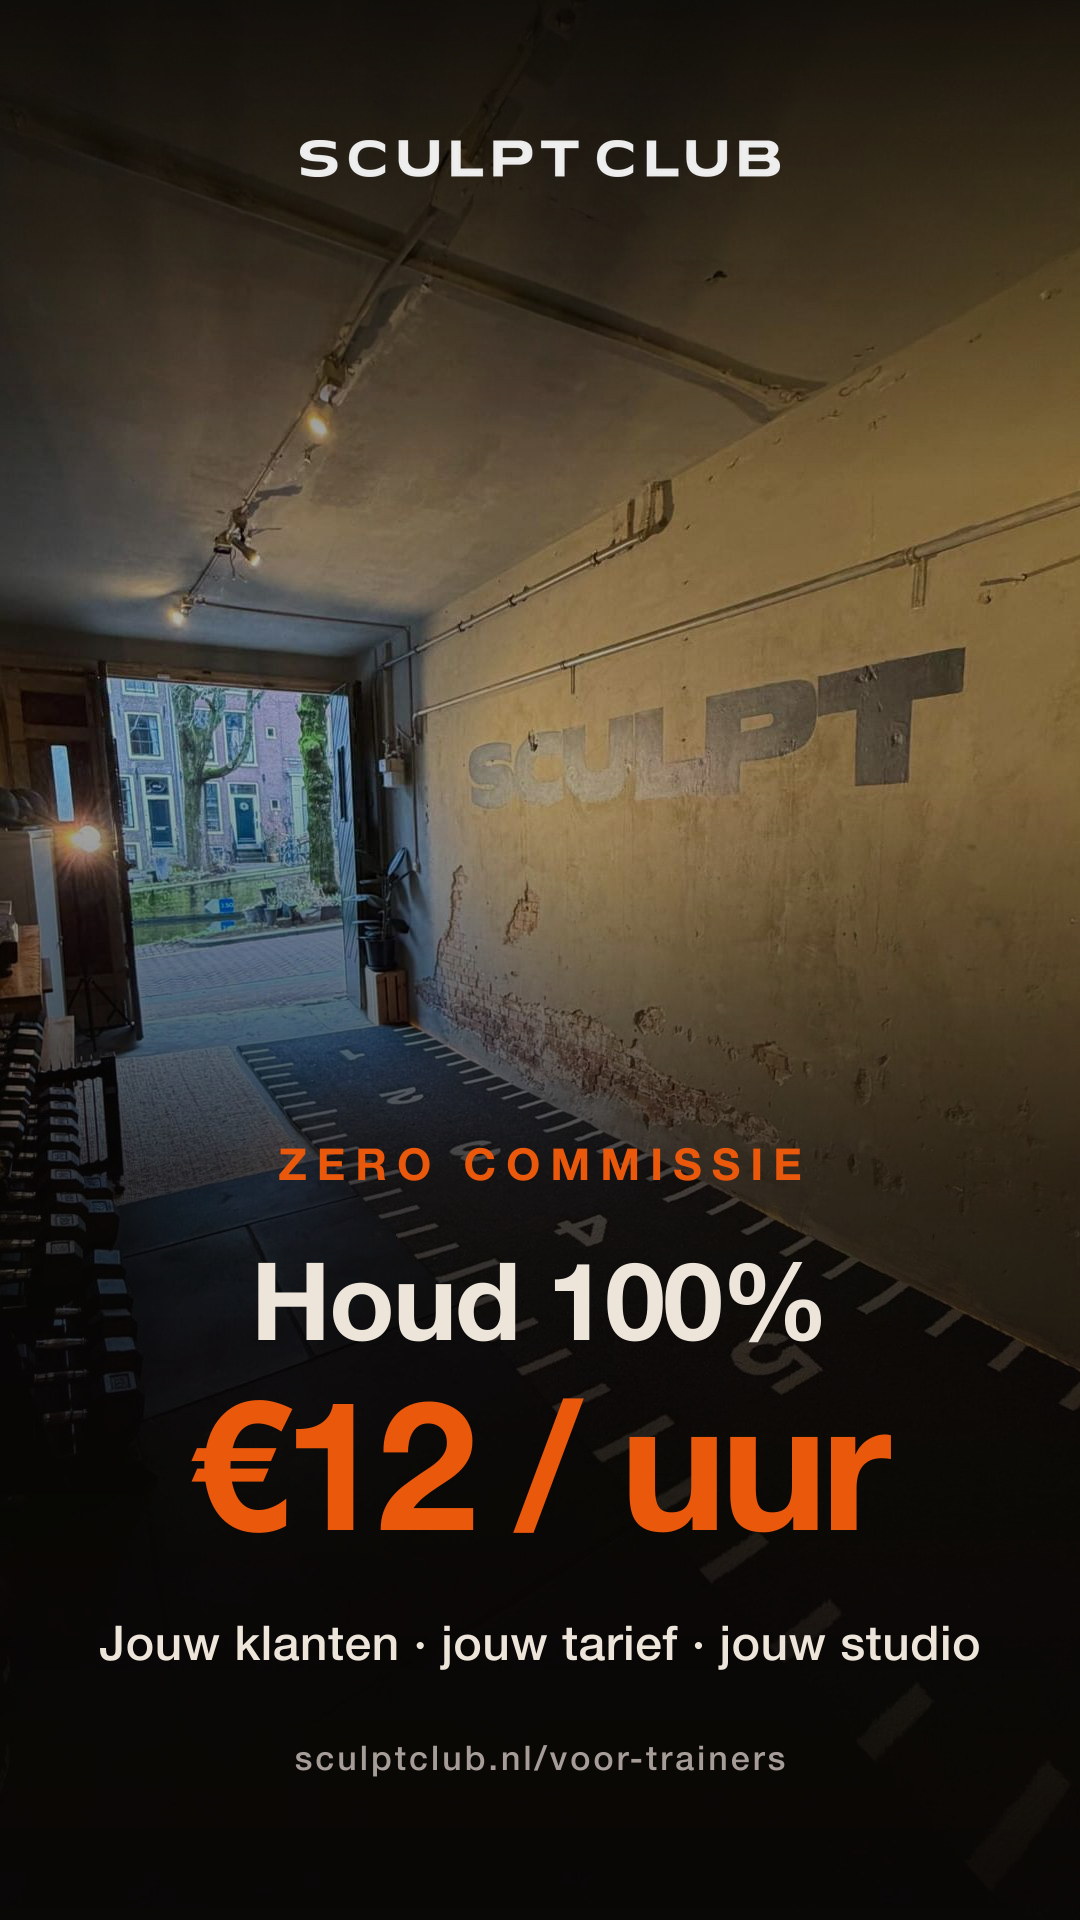
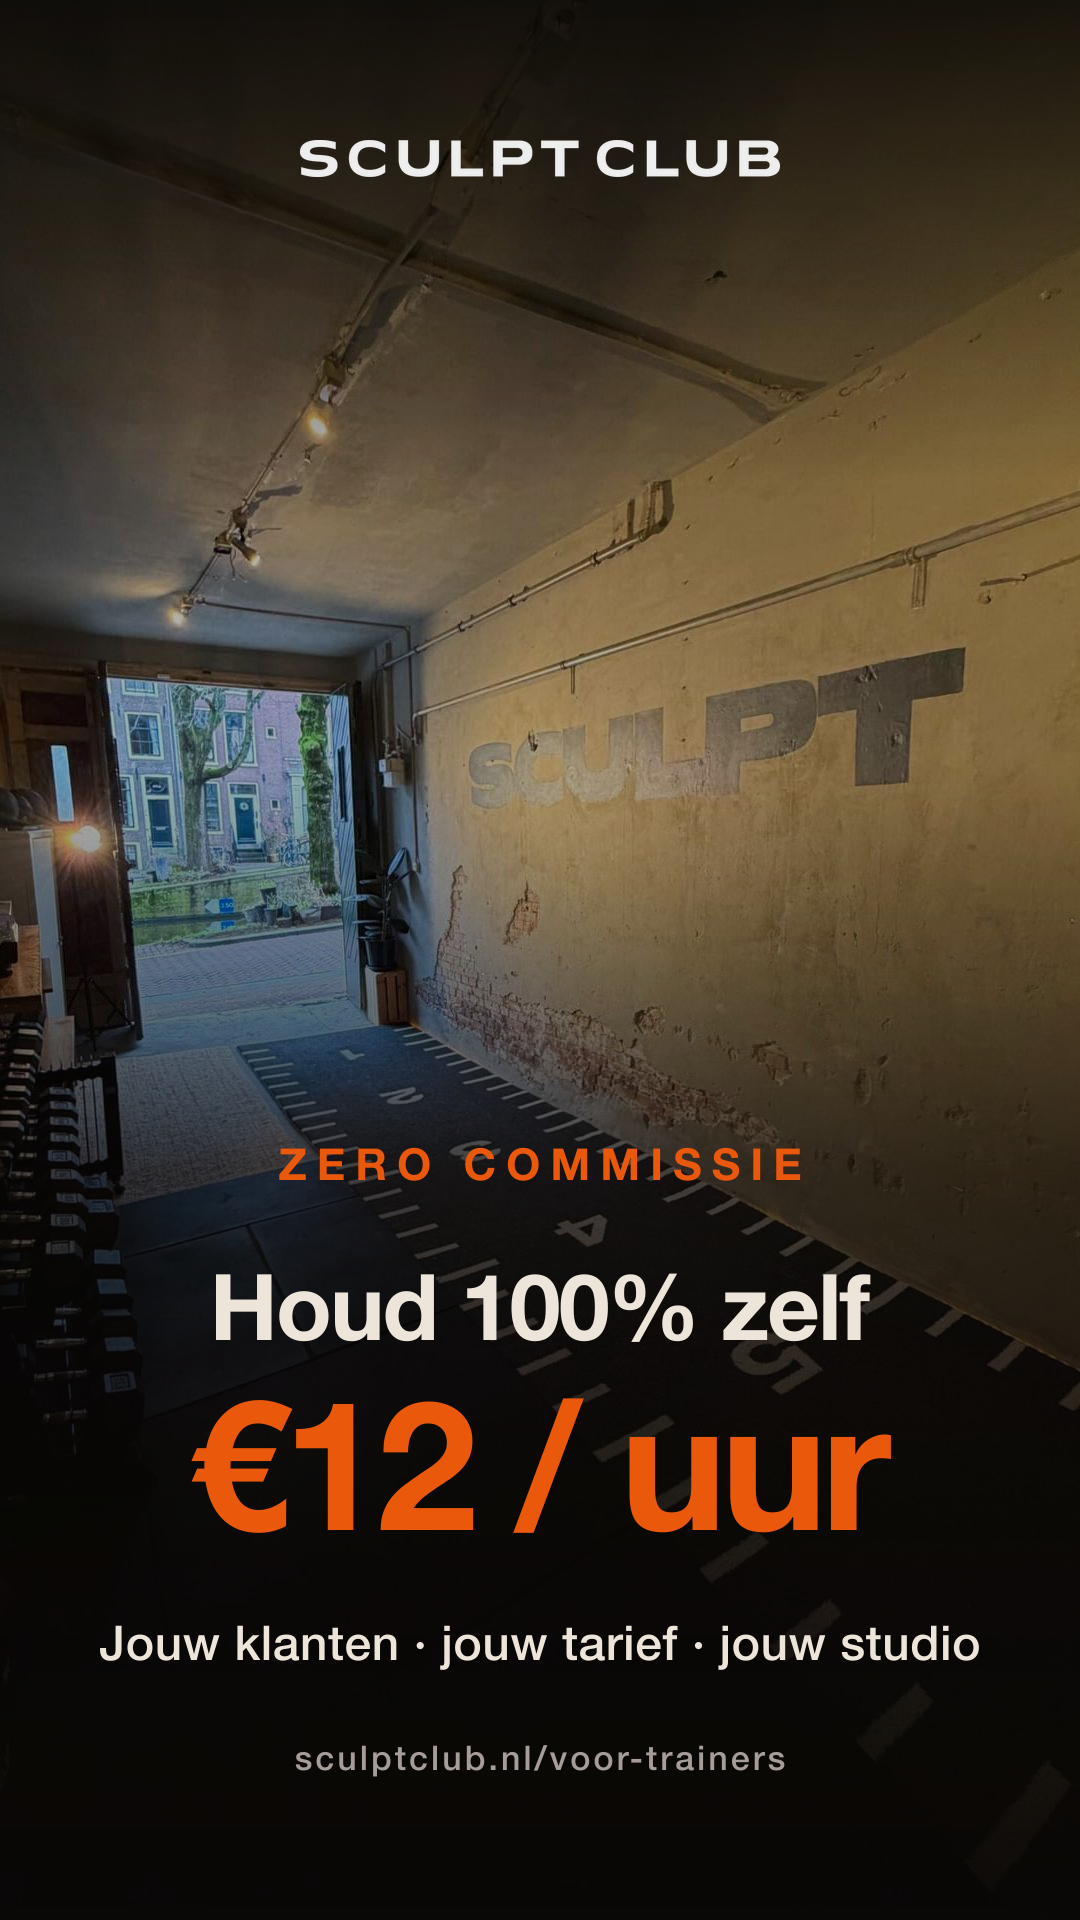
fix(social): save-to-Photos actually works · "Houd 100% zelf" · brand-coherent status colors
THREE root-cause fixes from operator feedback:

1. Download buttons didn't save to Photos
   <a download> is broken on iOS Safari for image MIME types — tapping the
   link just navigates to the PNG instead of saving. Real users got nothing.
   Now using navigator.share({ files: [File] }) which opens the iOS share
   sheet with "Bewaar afbeelding" → goes straight to Photos. Three-tier
   fallback (multi-file share → per-file share → blob download → long-press
   hint) covers iOS 15/16+, Android Chrome 89+, and desktop.

   Added primary "Bewaar alle 3 in Foto's" CTA at top of slides section —
   the single-tap path the operator's "download alle" heading promised but
   never delivered. AbortError handled silently (user dismissing the share
   sheet ≠ failure).

2. "Houd 100%" → "Houd 100% zelf" (slide 2 USP)
   "Houd 100%" alone reads as a Dutch fragment — "keep 100% [of what?]".
   "Houd 100% zelf" = "keep 100% yourself" makes the
   trainer-keeps-everything meaning explicit. Added per-slide heroScale
   field (0.85 here) so the longer string clears the 96px edge margins
   without clipping. images regenerated.

3. Status colors → brand-coherent
   .copied was Tailwind green-600 (#16A34A) and .failed was red-600
   (#DC2626) — generic system defaults that visually fight the
   warm-noir-+-tangerine palette. Replaced with green-700 (#15803D) +
   red-800 (#991B1B) which sit calmer against the warm surface and
[…]

Changed region(s): [[0.1833, 0.6562, 0.825, 0.7188]]

diff --git a/public/social/trainer-pitch-001/index.html b/public/social/trainer-pitch-001/index.html
@@ -19,7 +19,12 @@
       --near-black: #0E0C0A;
     }
     * { box-sizing: border-box; -webkit-tap-highlight-color: transparent; }
-    html, body { margin: 0; padding: 0; background: var(--bg); color: var(--fg); font-family: -apple-system, BlinkMacSystemFont, "Helvetica Neue", sans-serif; -webkit-font-smoothing: antialiased; }
+    /* Font: modernized system stack (system-ui first = OS default on every platform;
+       -apple-system = SF Pro on iOS Safari; rest = explicit fallbacks).
+       Zero font fetches by design — this is a noindex'd operator-tool page, every
+       KB of font weight is 10× the rest of the page. Brand identity lives in the
+       SCULPT CLUB wordmark inside the generated images, not in the tool chrome. */
+    html, body { margin: 0; padding: 0; background: var(--bg); color: var(--fg); font-family: system-ui, -apple-system, BlinkMacSystemFont, "Segoe UI", Roboto, "Helvetica Neue", Arial, sans-serif; -webkit-font-smoothing: antialiased; }
     body { padding: max(env(safe-area-inset-top), 1rem) 1rem max(env(safe-area-inset-bottom), 1rem); max-width: 560px; margin: 0 auto; }
     h1 { font-size: 1.6rem; margin: 0.5rem 0 0.25rem; letter-spacing: -0.02em; }
     h2 { font-size: 0.85rem; text-transform: uppercase; letter-spacing: 0.12em; color: var(--brand); margin: 2rem 0 0.6rem; font-weight: 700; }
@@ -148,7 +153,17 @@
       font-family: inherit;
     }
     .btn:active { background: var(--brand-dark); transform: scale(0.98); }
+    .btn:disabled { opacity: 0.55; cursor: wait; }
+    /* Primary "save all" CTA — slightly larger + bottom margin to anchor as the main action */
+    .save-all-btn { margin: 0 0 1rem; padding: 18px 20px; font-size: 1.05rem; }
+    .save-all-btn.copied { background: #15803D; color: #F0FDF4; }
+    .save-all-btn.failed { background: #991B1B; color: #FEF2F2; }
     .btn-group { display: grid; gap: 8px; padding: 0 16px 16px; }
+    /* Per-slide save button — secondary tone (lower-emphasis than save-all) */
+    .btn.btn-slide { background: var(--card); color: var(--fg); border: 1px solid var(--brand); padding: 12px 16px; font-size: 0.9rem; font-weight: 600; }
+    .btn.btn-slide:active { background: var(--near-black); }
+    .btn.btn-slide.copied { background: #15803D; color: #F0FDF4; border-color: #15803D; }
+    .btn.btn-slide.failed { background: #991B1B; color: #FEF2F2; border-color: #991B1B; }
     .card {
       background: var(--card);
       border: 1px solid var(--border);
@@ -181,8 +196,12 @@
       -webkit-appearance: none;
     }
     .copy-btn:active { background: var(--brand-dark); }
-    .copy-btn.copied { background: #16A34A; color: white; }
-    .copy-btn.failed { background: #DC2626; color: white; }
+    /* Status colors — calmer deeper variants (green-700 / red-800) that harmonize
+       with the warm-noir palette instead of fighting it. Both meet WCAG AA Large
+       with white text (5.4:1 + 9.2:1). Generic green-600/red-600 felt "system
+       default" against the rest of the warm-neutral surface. */
+    .copy-btn.copied { background: #15803D; color: #F0FDF4; }
+    .copy-btn.failed { background: #991B1B; color: #FEF2F2; }
     /* Long-press select fallback: keep text natively selectable */
     .card .text { user-select: text; -webkit-user-select: text; }
     .meta-row {
@@ -244,7 +263,10 @@
     </button>
   </div>
 
-  <h2>📱 3 slides · download alle</h2>
+  <h2>📷 3 slides → Foto's</h2>
+  <p style="color: var(--muted); font-size: 0.85rem; margin: 0 0 0.8rem">Eén tap → iOS share sheet opent → kies <strong>Bewaar afbeelding</strong>. Slides komen direct in je Foto's.</p>
+  <!-- Primary action: save all 3 in one share-sheet operation. -->
+  <button class="btn save-all-btn" id="save-all-btn" onclick="saveAllSlides(this)">📷 Bewaar alle 3 in Foto's</button>
   <div class="slides" id="slides-container">
     <!-- Slides rendered dynamically by switchPlatform() -->
   </div>
@@ -289,7 +311,7 @@
   <div class="card" id="workflow-card">
     <ol style="padding-left: 1.4em; margin: 0; line-height: 1.7" id="workflow-list">
       <li>Kies platform tab boven (TikTok of Instagram)</li>
-      <li>Download alle 3 slides (één tap per knop)</li>
+      <li>Tap <strong>"Bewaar alle 3 in Foto's"</strong> → bevestig in share sheet</li>
       <li>Open <strong id="platform-app">TikTok</strong> app → tap "+"</li>
       <li>Photos mode → Camera roll → select alle 3 slides in volgorde</li>
       <li>Sound toevoegen (zie hierboven)</li>
@@ -333,8 +355,9 @@ function switchPlatform(platform) {
 
   const container = document.getElementById('slides-container');
   const aspect = platform === 'tiktok' ? 'aspect-vertical' : 'aspect-square';
-  // Image files live in the same directory as this HTML — use relative paths.
-  // Download attribute carries the post-id for clean Files/Photos roll labels.
+  // Each slide renders its own image + a SAVE button calling saveSlide().
+  // We pass the platform + slide-name + label so the same function works
+  // for either platform without DOM-attribute archaeology.
   container.innerHTML = slidesData.map(s => `
     <div class="slide">
       <img src="${platform}-${s.name}.png" class="slide-img ${aspect}" alt="Slide ${s.label} — ${s.title}" loading="lazy">
@@ -342,7 +365,7 @@ function switchPlatform(platform) {
         <span class="slide-label"><span class="slide-num">${s.label}</span>${s.title}</span>
       </div>
       <div class="btn-group">
-        <a href="${platform}-${s.name}.png" download="sculptclub-trainer-pitch-001-${platform}-slide-${s.label}.png" class="btn">📥 Download slide ${s.label}</a>
+        <button class="btn btn-slide" onclick="saveSlide('${platform}', '${s.name}', '${s.label}', this)">📷 Bewaar slide ${s.label}</button>
       </div>
     </div>
   `).join('');
@@ -412,6 +435,128 @@ function flash(btn, msg, cls, duration = 2000) {
 function copyCaption(btn)  { copy(CAPTION, btn); }
 function copyHashtags(btn) { copy(HASHTAGS, btn); }
 function copyCombined(btn) { copy(CAPTION + '\n\n' + HASHTAGS, btn); }
+
+// ─── Save-to-Photos: Web Share API (iOS 15+ → Photos) → blob download → long-press hint ───
+//
+// The native HTML <a download="..."> attribute is broken on iOS Safari for images
+// (tapping just navigates to the PNG instead of triggering save). The reliable
+// path is navigator.share({ files: [File] }) — iOS opens the share sheet with
+// "Bewaar afbeelding" as the top option, which goes straight to Photos.
+//
+// Fallback chain matches the copy() function's 3-tier discipline.
+
+async function _fetchAsFile(url, filename) {
+  const resp = await fetch(url);
+  if (!resp.ok) throw new Error(`fetch ${url} failed: ${resp.status}`);
+  const blob = await resp.blob();
+  return new File([blob], filename, { type: blob.type || 'image/png' });
+}
+
+function _downloadBlob(blob, filename) {
+  const url = URL.createObjectURL(blob);
+  const a = document.createElement('a');
+  a.href = url;
+  a.download = filename;
+  document.body.appendChild(a);
+  a.click();
+  document.body.removeChild(a);
+  setTimeout(() => URL.revokeObjectURL(url), 1500);
+}
+
+function _activePlatform() {
+  return document.getElementById('tab-tiktok').classList.contains('active') ? 'tiktok' : 'instagram';
+}
+
+async function saveSlide(platform, slideName, slideLabel, btn) {
+  const url = `${platform}-${slideName}.png`;
+  const filename = `sculptclub-trainer-pitch-001-${platform}-slide-${slideLabel}.png`;
+
+  // Tier 1 — Web Share API with File (iOS 15+ + modern Android Chrome → native Photos save)
+  try {
+    if (navigator.canShare) {
+      const file = await _fetchAsFile(url, filename);
+      if (navigator.canShare({ files: [file] })) {
+        await navigator.share({ files: [file] });
+        flash(btn, '✅ Bewaard in Foto\'s', 'copied');
+        return;
+      }
+    }
+  } catch (err) {
+    if (err && err.name === 'AbortError') return;  // user dismissed share sheet — no error
+    // Other errors → fall through
+  }
+
+  // Tier 2 — Blob URL + <a download> (desktop + non-share Android Chrome → saves to Downloads)
+  try {
+    const file = await _fetchAsFile(url, filename);
+    _downloadBlob(file, filename);
+    flash(btn, '✅ Gedownload', 'copied');
+    return;
+  } catch (_) { /* fall through */ }
+
+  // Tier 3 — open image in new tab so user can long-press → "Bewaar in Foto's"
+  window.open(url, '_blank', 'noopener');
+  flash(btn, '👆 Long-press afbeelding → Bewaar', 'failed', 4500);
+}
+
+async function saveAllSlides(btn) {
+  const platform = _activePlatform();
+  btn.disabled = true;
+
+  // Tier 1 — multi-file Web Share API (iOS 16+ + Android Chrome 89+)
+  try {
+    const files = await Promise.all(slidesData.map(s =>
+      _fetchAsFile(`${platform}-${s.name}.png`, `sculptclub-trainer-pitch-001-${platform}-slide-${s.label}.png`)
+    ));
+    if (navigator.canShare && navigator.canShare({ files })) {
+      await navigator.share({ files });
+      flash(btn, '✅ 3 slides → Foto\'s', 'copied');
+      btn.disabled = false;
+      return;
+    }
+    // canShare returned false → throw to trigger fallback (or AbortError if user cancelled below)
+    throw new Error('multi-file share unsupported');
+  } catch (err) {
+    if (err && err.name === 'AbortError') { btn.disabled = false; return; }
+    // fall through to sequential
+  }
+
+  // Tier 2 — share each file one at a time (covers iOS 15 single-file share)
+  try {
+    let shared = 0;
+    for (const s of slidesData) {
+      const file = await _fetchAsFile(`${platform}-${s.name}.png`, `sculptclub-trainer-pitch-001-${platform}-slide-${s.label}.png`);
+      if (navigator.canShare && navigator.canShare({ files: [file] })) {
+        await navigator.share({ files: [file] });
+        shared++;
+      } else {
+        _downloadBlob(file, file.name);
+        shared++;
+      }
+    }
+    if (shared === slidesData.length) {
+      flash(btn, '✅ 3 slides bewaard', 'copied');
+      btn.disabled = false;
+      return;
+    }
+  } catch (err) {
+    if (err && err.name === 'AbortError') { btn.disabled = false; return; }
+    // fall through
+  }
+
+  // Tier 3 — bulk blob download (desktop)
+  try {
+    for (const s of slidesData) {
+      const file = await _fetchAsFile(`${platform}-${s.name}.png`, `sculptclub-trainer-pitch-001-${platform}-slide-${s.label}.png`);
+      _downloadBlob(file, file.name);
+      await new Promise(r => setTimeout(r, 350));  // give browser time to register each download
+    }
+    flash(btn, '✅ 3 slides gedownload', 'copied');
+  } catch (_) {
+    flash(btn, '👆 Tap individuele slides hieronder', 'failed', 4500);
+  }
+  btn.disabled = false;
+}
 
 // Initialize with TikTok view
 switchPlatform('tiktok');
